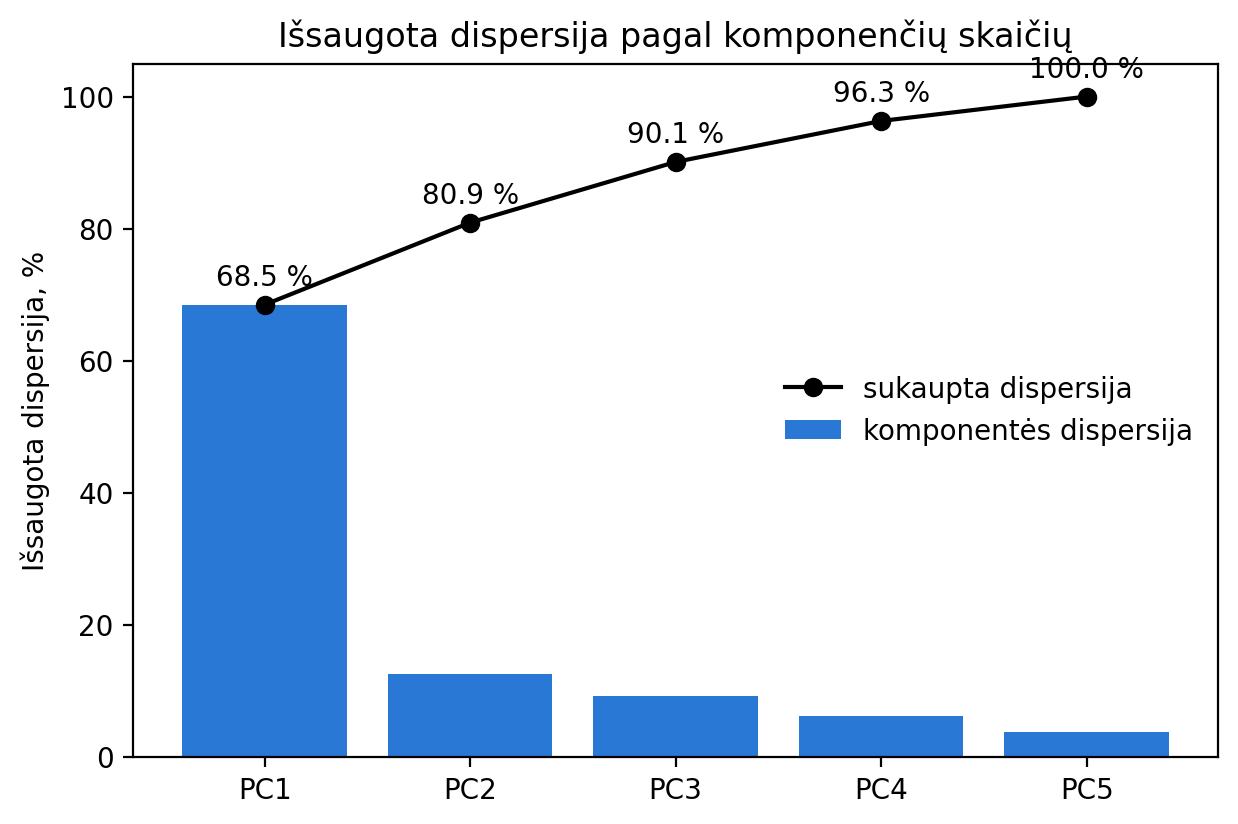
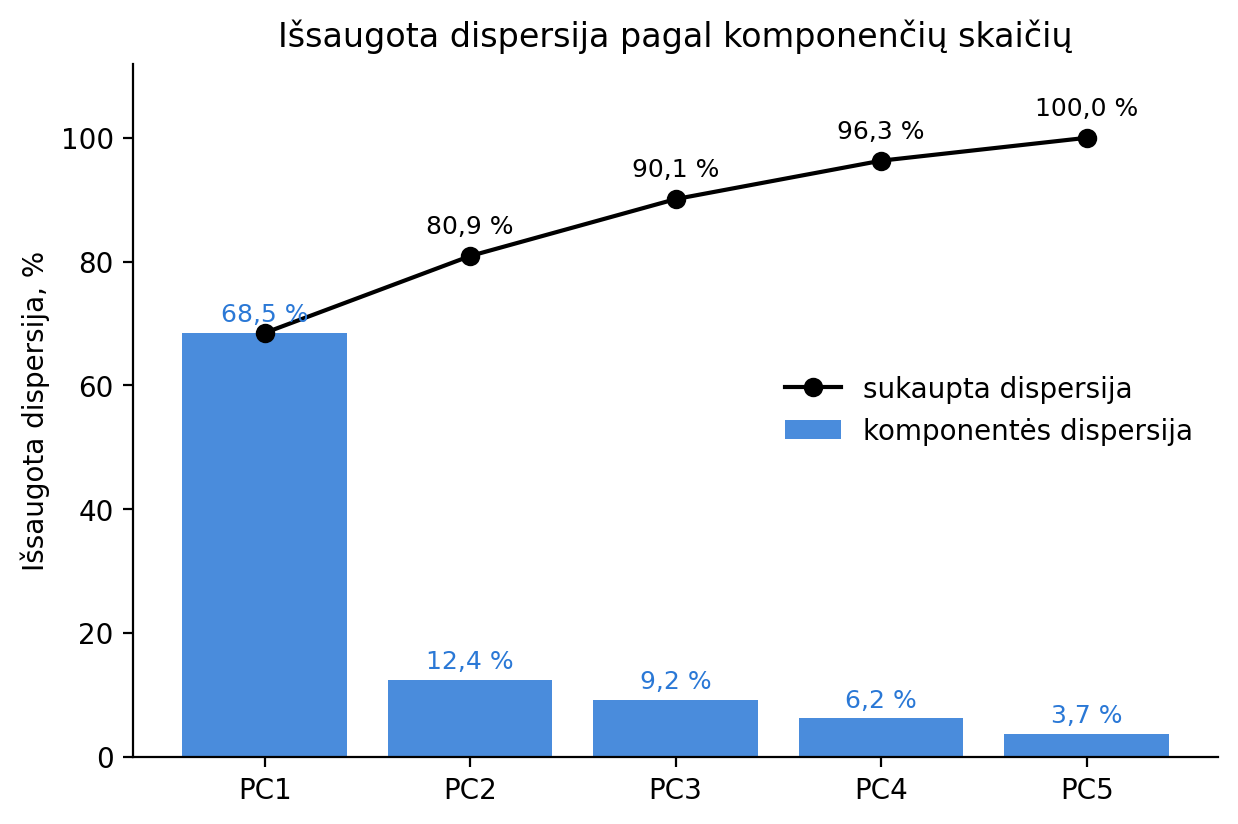
changed some graphs

diff --git a/PCA/pca.py b/PCA/pca.py
@@ -64,15 +64,25 @@ def plot_variance(variance_percent):
     cumulative = np.cumsum(variance_percent)
 
     fig, ax = plt.subplots(figsize=(7, 4.5))
-    ax.bar(pcs, variance_percent, color="#2a78d6", label="komponentės dispersija")
+    ax.bar(pcs, variance_percent, color="#2a78d6", alpha=0.85, label="komponentės dispersija")
     ax.plot(pcs, cumulative, color="black", marker="o", label="sukaupta dispersija")
-    for x, y in zip(pcs, cumulative):
-        ax.annotate(f"{y:.1f} %", (x, y), textcoords="offset points", xytext=(0, 7), ha="center")
+
+    # reikšmės ant stulpelių
+    for x, y in zip(pcs, variance_percent):
+        ax.annotate(f"{y:.1f} %".replace(".", ","), (x, y), textcoords="offset points",
+                    xytext=(0, 4), ha="center", fontsize=9, color="#2a78d6")
+
+    # sukauptos reikšmės (PC1 praleidžiam – ji tokia pati kaip stulpelio)
+    for x, y in zip(pcs[1:], cumulative[1:]):
+        ax.annotate(f"{y:.1f} %".replace(".", ","), (x, y), textcoords="offset points",
+                    xytext=(0, 8), ha="center", fontsize=9)
 
     ax.set_ylabel("Išsaugota dispersija, %")
-    ax.set_ylim(0, 105)
+    ax.set_ylim(0, 112)
     ax.set_title("Išsaugota dispersija pagal komponenčių skaičių")
     ax.legend(frameon=False, loc="center right")
+    for side in ["top", "right"]:
+        ax.spines[side].set_visible(False)
 
     fig.savefig(OUTPUT_DIR / "pca_dispersija.png", dpi=200, bbox_inches="tight")
     plt.close(fig)
@@ -122,9 +132,10 @@ def main():
     loadings = pd.DataFrame(eigenvectors, index=FEATURES, columns=pcs)
     print("Požymių svoriai:")
     print(loadings.round(3), "\n")
-    print("(skaiciuoja)")
+
     metrics = {}
     for d in [2, 3]:
+        print("(skaiciuoja)")
         Y = project(X, mean, eigenvectors, d)
         metrics[f"{d}D"] = evaluate_projection(X, Y, labels)
     metrics = pd.DataFrame(metrics)
